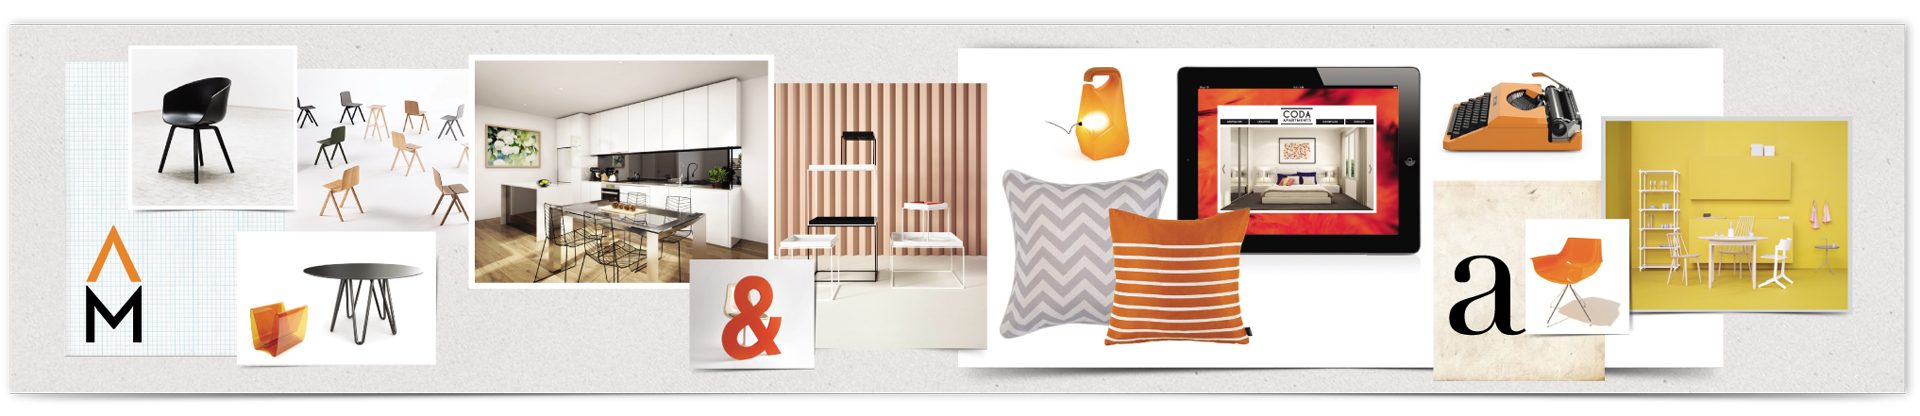
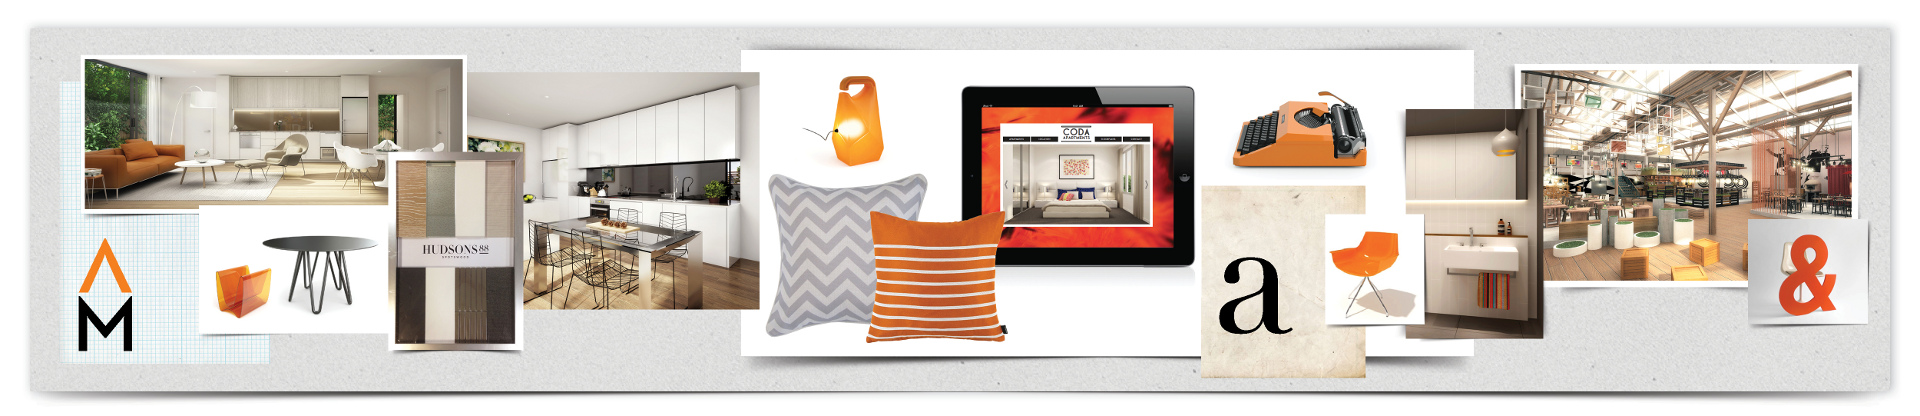
changes to services page - moodboard and added text

diff --git a/includes/header.php b/includes/header.php
@@ -2,13 +2,13 @@
 <html lang="en">
 <head>
 <title><?php if (isset($title)) {echo $title;} else {echo "Arctic Mirage";} ?></title>
-<meta name="keywords" content="<?php echo $keywords; ?>">
-<meta name="description" content="<?php echo $description; ?>">
+<meta name="keywords" content="<?php if (isset($keywords)) {echo $keywords;} else {echo "";} ?>">
+<meta name="description" content="<?php if (isset($description)) {echo $description;} else {echo "";} ?>">
 <meta http-equiv="content-type" content="text/html; charset=<?php echo defined('PHPFMG_CHARSET') ? PHPFMG_CHARSET : 'UTF-8'; ?>">
-<link rel="stylesheet" type="text/css" href="http://tam-web.info/a2/includes/css/style.css" media="screen">
-<link rel="stylesheet" type="text/css" href="http://tam-web.info/a2/includes/css/jquery.mCustomScrollbar.css">
-<script type="javascript" src="http://tam-web.info/a2/includes/highlight.js"></script>
-<?php $logo_image = '<a href="/" title="The Arctic Mirage"><img src="http://tam-web.info/a2/includes/images/arcticmirage-logo.png" alt="Arctic Mirage Logo"></a>'; ?>
+<link rel="stylesheet" type="text/css" href="/includes/css/style.css" media="screen">
+<link rel="stylesheet" type="text/css" href="/includes/css/jquery.mCustomScrollbar.css">
+<script type="javascript" src="/includes/highlight.js"></script>
+<?php $logo_image = '<a href="/" title="The Arctic Mirage"><img src="/includes/images/arcticmirage-logo.png" alt="Arctic Mirage Logo"></a>'; ?>
 <meta name="author" content="Arctic Mirage">
 </head>
 <body>

diff --git a/services.php b/services.php
@@ -45,13 +45,19 @@
                 <p>3D Movie Animation</p>
 			</div>
 		</div>
+			<div class="sp">
+				<div>Interior Styling</div>
 				<div>
-			<div>Interior Styling</div>
-			<div>
-				<p>Display Suite</p>
-				<p>Exhibition Stand</p>
+					<p>Display Suite</p>
+					<p>Exhibition Stand</p>
+				</div>
 			</div>
-		</div>
+			<div class="sp">
+				<div>Interior Design Consultancy</div>
+				<div>
+					<p>Joinery Details</p>
+				</div>
+			</div>
 	</div>
 	<div>
 	    <h1>Graphic Design</h1>

diff --git a/about.php b/about.php
@@ -6,7 +6,6 @@
 </div>
 <div class="about-wrapper">
 	<div><h1>WE ARE THE ARCTIC MIRAGE</h1></div>
-		<!--<div>-->
 			<p>We are passionate about design.</p>
 			<p>All sorts of design.</p>
 			<p>Our boutique studio buzzes with positive energy and thrives on our knack<br>
@@ -21,6 +20,5 @@
 			specifications, material boards and marketing colour floorplans.</p>
 			<p>We love what we do.</p>
 			<p>And it shows.</p>
-		<!--</div>-->
 </div>
 <?php include("includes/footer.php"); ?>
